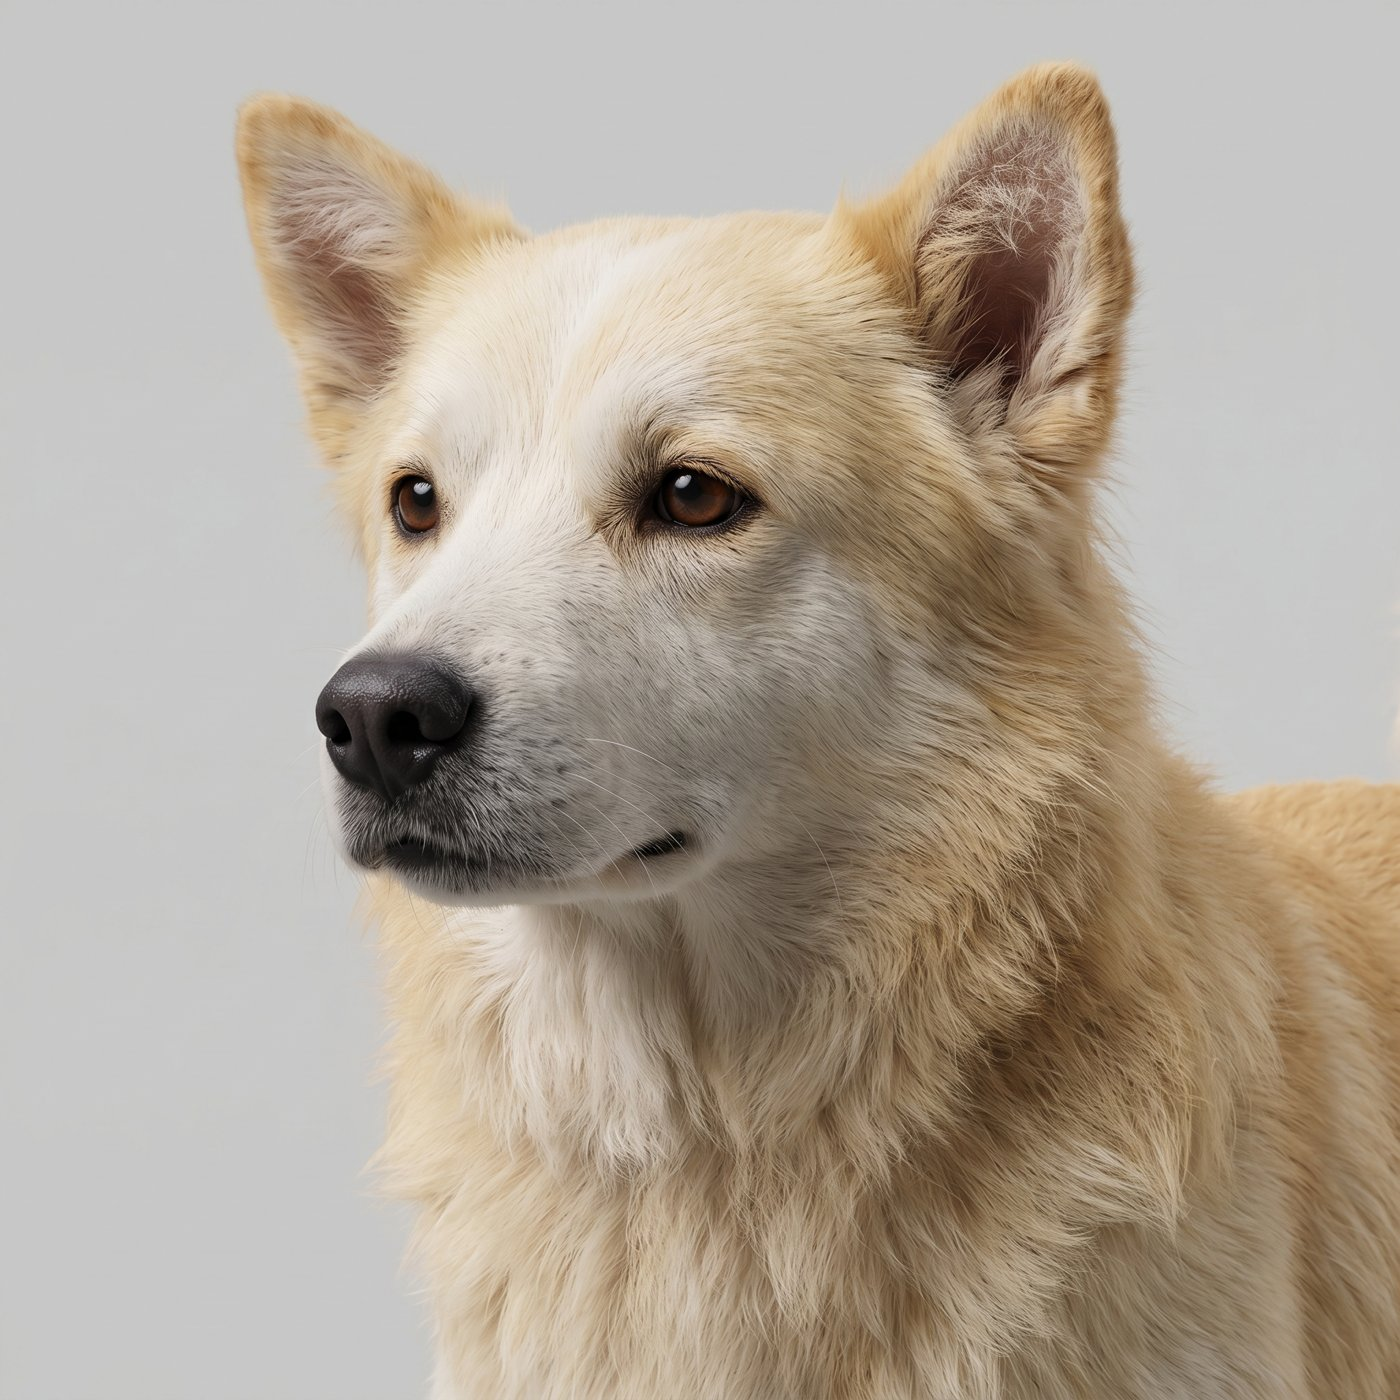
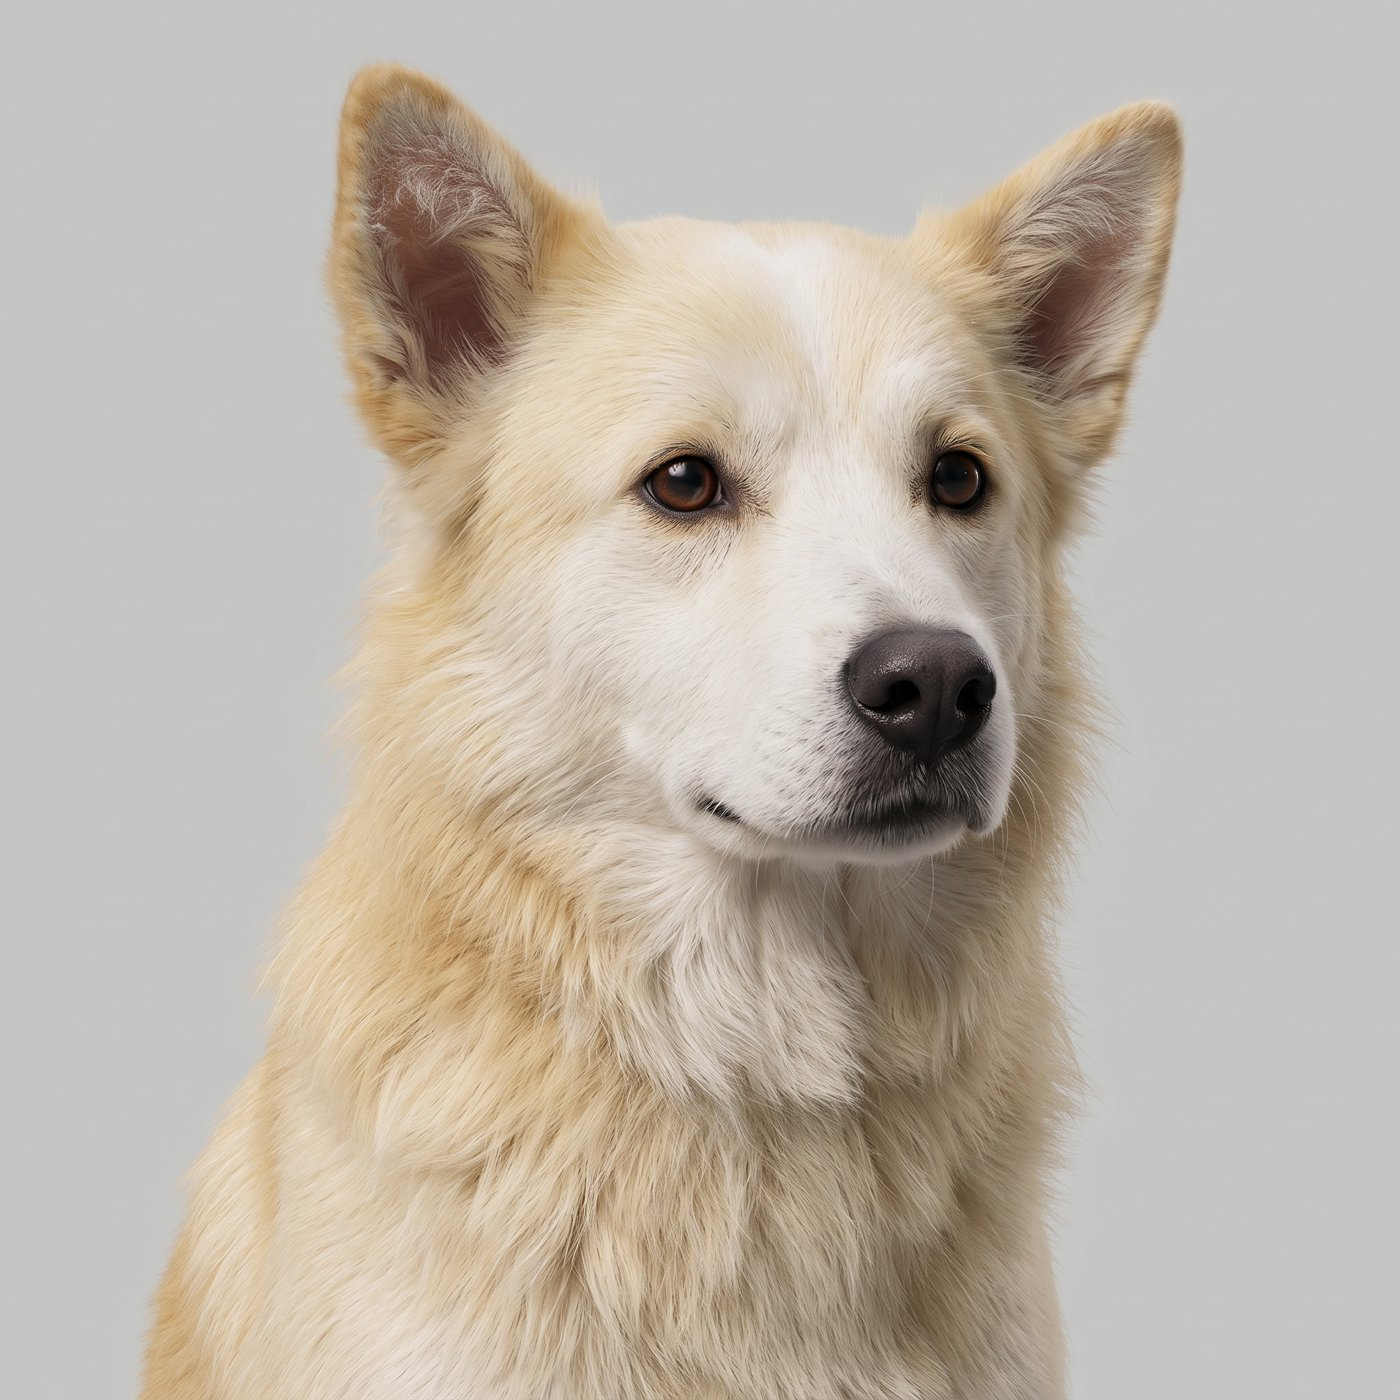
三寶參考圖：加布丁年輕版 6 張、阿諾加長版正面

diff --git a/設計/2026-11-14_三寶3D參考圖.html b/設計/2026-11-14_三寶3D參考圖.html
@@ -16,10 +16,12 @@ figcaption{font-size:.9rem;color:var(--mute);text-align:center;margin-top:.2em}
 <div class="box"><ol>
 <li>這些是用照片請 Gemini 畫的各角度參考圖，之後拿來做 3D 模型。點圖可以放大。</li>
 <li>像不像由你判斷：請直接告訴我哪一隻、哪一張、哪裡不對（臉長、耳朵、花色位置、體型）。</li>
-<li>已知還沒修的：阿諾頭部特寫有殘影；標「鏡像」的那一側是另一側翻過來的，不是真的那一側；背面不是完全正後方；布丁和阿諾還缺四分之三側與轉身組圖。</li>
+<li>新產的排在最上面；舊版留在下面對照。標「鏡像」的那一側是另一側翻過來的。</li>
 </ol></div>
+<section class="card"><h2>布丁（年輕版，11/14 傍晚新產）</h2><p class="d">照你的意見：毛色米白帶微黃、肚子修長、去掉老態。目前 6 張，還缺轉身組圖。</p><div class="g"><figure><a href="pets/buding/front.jpg"><img loading="lazy" src="pets/buding/front.jpg" alt="布丁（年輕版，11/14 傍晚新產） 正面"></a><figcaption>正面</figcaption></figure><figure><a href="pets/buding/left.jpg"><img loading="lazy" src="pets/buding/left.jpg" alt="布丁（年輕版，11/14 傍晚新產） 左側"></a><figcaption>左側</figcaption></figure><figure><a href="pets/buding/right.jpg"><img loading="lazy" src="pets/buding/right.jpg" alt="布丁（年輕版，11/14 傍晚新產） 右側"></a><figcaption>右側</figcaption></figure><figure><a href="pets/buding/back.jpg"><img loading="lazy" src="pets/buding/back.jpg" alt="布丁（年輕版，11/14 傍晚新產） 背面"></a><figcaption>背面</figcaption></figure><figure><a href="pets/buding/three-quarter.jpg"><img loading="lazy" src="pets/buding/three-quarter.jpg" alt="布丁（年輕版，11/14 傍晚新產） 四分之三側"></a><figcaption>四分之三側</figcaption></figure><figure><a href="pets/buding/head.jpg"><img loading="lazy" src="pets/buding/head.jpg" alt="布丁（年輕版，11/14 傍晚新產） 頭部特寫"></a><figcaption>頭部特寫</figcaption></figure></div></section>
+<section class="card"><h2>阿諾（身體加長一點，11/14 傍晚新產）</h2><p class="d">目前只產出正面，其他角度等 Gemini 額度。</p><div class="g"><figure><a href="pets/anuo/v3-front.jpg"><img loading="lazy" src="pets/anuo/v3-front.jpg" alt="阿諾（身體加長一點，11/14 傍晚新產） 正面"></a><figcaption>正面</figcaption></figure></div></section>
 <section class="card"><h2>小布（第一版，年輕樣貌）</h2><p class="d">你說這版幾乎完美還原；實際的臉比圖稍長一點點。</p><div class="g"><figure><a href="pets/xiaobu/front.jpg"><img loading="lazy" src="pets/xiaobu/front.jpg" alt="小布（第一版，年輕樣貌） 正面"></a><figcaption>正面</figcaption></figure><figure><a href="pets/xiaobu/left.jpg"><img loading="lazy" src="pets/xiaobu/left.jpg" alt="小布（第一版，年輕樣貌） 左側"></a><figcaption>左側</figcaption></figure><figure><a href="pets/xiaobu/right.jpg"><img loading="lazy" src="pets/xiaobu/right.jpg" alt="小布（第一版，年輕樣貌） 右側"></a><figcaption>右側</figcaption></figure><figure><a href="pets/xiaobu/back.jpg"><img loading="lazy" src="pets/xiaobu/back.jpg" alt="小布（第一版，年輕樣貌） 背面"></a><figcaption>背面</figcaption></figure><figure><a href="pets/xiaobu/three-quarter.jpg"><img loading="lazy" src="pets/xiaobu/three-quarter.jpg" alt="小布（第一版，年輕樣貌） 四分之三側"></a><figcaption>四分之三側</figcaption></figure><figure><a href="pets/xiaobu/head.jpg"><img loading="lazy" src="pets/xiaobu/head.jpg" alt="小布（第一版，年輕樣貌） 頭部特寫"></a><figcaption>頭部特寫</figcaption></figure><figure><a href="pets/xiaobu/turnaround.jpg"><img loading="lazy" src="pets/xiaobu/turnaround.jpg" alt="小布（第一版，年輕樣貌） 轉身組圖"></a><figcaption>轉身組圖</figcaption></figure></div></section>
-<section class="card"><h2>布丁</h2><p class="d">等你看像不像。</p><div class="g"><figure><a href="pets/buding/front.jpg"><img loading="lazy" src="pets/buding/front.jpg" alt="布丁 正面"></a><figcaption>正面</figcaption></figure><figure><a href="pets/buding/left-mirror.jpg"><img loading="lazy" src="pets/buding/left-mirror.jpg" alt="布丁 左側（右側鏡像）"></a><figcaption>左側（右側鏡像）</figcaption></figure><figure><a href="pets/buding/right.jpg"><img loading="lazy" src="pets/buding/right.jpg" alt="布丁 右側"></a><figcaption>右側</figcaption></figure><figure><a href="pets/buding/back.jpg"><img loading="lazy" src="pets/buding/back.jpg" alt="布丁 背面"></a><figcaption>背面</figcaption></figure><figure><a href="pets/buding/head.jpg"><img loading="lazy" src="pets/buding/head.jpg" alt="布丁 頭部特寫"></a><figcaption>頭部特寫</figcaption></figure></div></section>
-<section class="card"><h2>阿諾</h2><p class="d">等你看像不像。頭部特寫有殘影，會重產。</p><div class="g"><figure><a href="pets/anuo/front.jpg"><img loading="lazy" src="pets/anuo/front.jpg" alt="阿諾 正面"></a><figcaption>正面</figcaption></figure><figure><a href="pets/anuo/left.jpg"><img loading="lazy" src="pets/anuo/left.jpg" alt="阿諾 左側"></a><figcaption>左側</figcaption></figure><figure><a href="pets/anuo/right-mirror.jpg"><img loading="lazy" src="pets/anuo/right-mirror.jpg" alt="阿諾 右側（左側鏡像）"></a><figcaption>右側（左側鏡像）</figcaption></figure><figure><a href="pets/anuo/back.jpg"><img loading="lazy" src="pets/anuo/back.jpg" alt="阿諾 背面"></a><figcaption>背面</figcaption></figure><figure><a href="pets/anuo/head.jpg"><img loading="lazy" src="pets/anuo/head.jpg" alt="阿諾 頭部特寫"></a><figcaption>頭部特寫</figcaption></figure></div></section>
+<section class="card"><h2>阿諾（上一版，身體沒加長）</h2><p class="d">留著對照。頭部特寫有殘影。</p><div class="g"><figure><a href="pets/anuo/v2-front.jpg"><img loading="lazy" src="pets/anuo/v2-front.jpg" alt="阿諾（上一版，身體沒加長） 正面"></a><figcaption>正面</figcaption></figure><figure><a href="pets/anuo/v2-left.jpg"><img loading="lazy" src="pets/anuo/v2-left.jpg" alt="阿諾（上一版，身體沒加長） 左側"></a><figcaption>左側</figcaption></figure><figure><a href="pets/anuo/v2-right-mirror.jpg"><img loading="lazy" src="pets/anuo/v2-right-mirror.jpg" alt="阿諾（上一版，身體沒加長） 右側（左側鏡像）"></a><figcaption>右側（左側鏡像）</figcaption></figure><figure><a href="pets/anuo/v2-back.jpg"><img loading="lazy" src="pets/anuo/v2-back.jpg" alt="阿諾（上一版，身體沒加長） 背面"></a><figcaption>背面</figcaption></figure><figure><a href="pets/anuo/v2-head.jpg"><img loading="lazy" src="pets/anuo/v2-head.jpg" alt="阿諾（上一版，身體沒加長） 頭部特寫"></a><figcaption>頭部特寫</figcaption></figure></div></section>
+<section class="card"><h2>布丁（老年版，備用）</h2><p class="d">上一版，你說是老年樣貌。</p><div class="g"><figure><a href="pets/buding/old-front.jpg"><img loading="lazy" src="pets/buding/old-front.jpg" alt="布丁（老年版，備用） 正面"></a><figcaption>正面</figcaption></figure><figure><a href="pets/buding/old-left-mirror.jpg"><img loading="lazy" src="pets/buding/old-left-mirror.jpg" alt="布丁（老年版，備用） 左側（右側鏡像）"></a><figcaption>左側（右側鏡像）</figcaption></figure><figure><a href="pets/buding/old-right.jpg"><img loading="lazy" src="pets/buding/old-right.jpg" alt="布丁（老年版，備用） 右側"></a><figcaption>右側</figcaption></figure><figure><a href="pets/buding/old-back.jpg"><img loading="lazy" src="pets/buding/old-back.jpg" alt="布丁（老年版，備用） 背面"></a><figcaption>背面</figcaption></figure><figure><a href="pets/buding/old-head.jpg"><img loading="lazy" src="pets/buding/old-head.jpg" alt="布丁（老年版，備用） 頭部特寫"></a><figcaption>頭部特寫</figcaption></figure></div></section>
 <section class="card"><h2>小布（老年版，備用）</h2><p class="d">先前照近期照片畫的版本，留著備用。</p><div class="g"><figure><a href="pets/xiaobu/old-front.jpg"><img loading="lazy" src="pets/xiaobu/old-front.jpg" alt="小布（老年版，備用） 正面"></a><figcaption>正面</figcaption></figure><figure><a href="pets/xiaobu/old-left.jpg"><img loading="lazy" src="pets/xiaobu/old-left.jpg" alt="小布（老年版，備用） 左側"></a><figcaption>左側</figcaption></figure><figure><a href="pets/xiaobu/old-right-mirror.jpg"><img loading="lazy" src="pets/xiaobu/old-right-mirror.jpg" alt="小布（老年版，備用） 右側（左側鏡像）"></a><figcaption>右側（左側鏡像）</figcaption></figure><figure><a href="pets/xiaobu/old-back.jpg"><img loading="lazy" src="pets/xiaobu/old-back.jpg" alt="小布（老年版，備用） 背面"></a><figcaption>背面</figcaption></figure><figure><a href="pets/xiaobu/old-head.jpg"><img loading="lazy" src="pets/xiaobu/old-head.jpg" alt="小布（老年版，備用） 頭部特寫"></a><figcaption>頭部特寫</figcaption></figure></div></section>
 </main></body></html>
